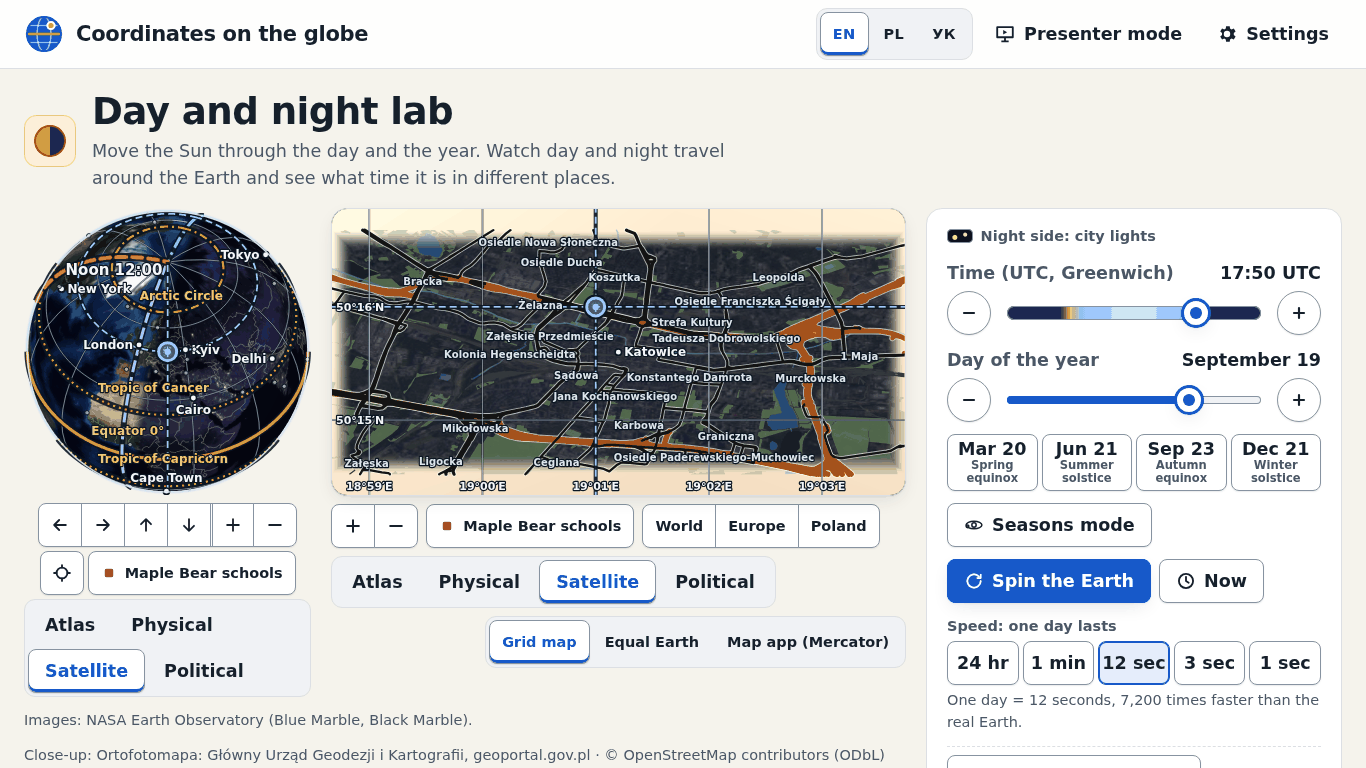
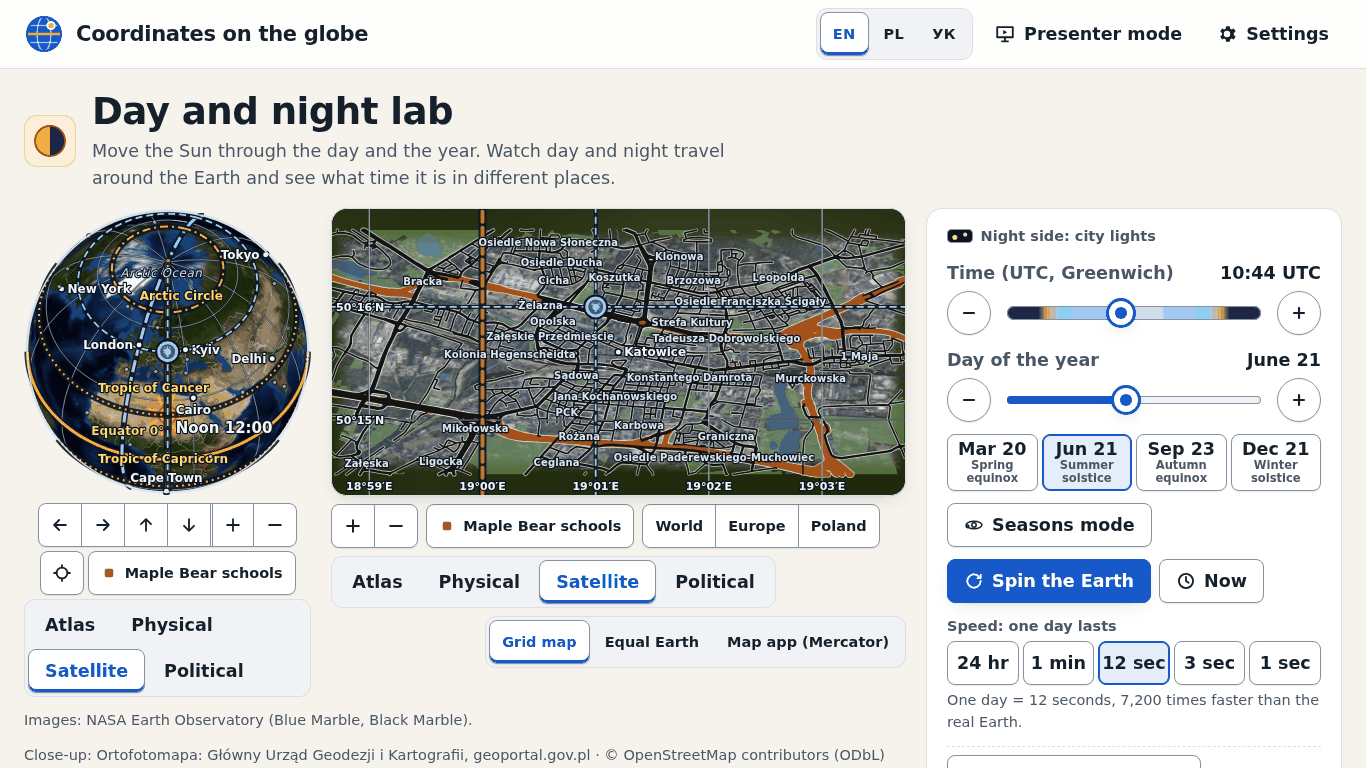
docs: say what is really left, and two small things that were only nearly right
docs/RELEASE.md's "Known issues" claimed the missing water was two boxes and
only in the styles that draw no photo. It was six boxes, and it showed in
every style, because the water fill is drawn over the photo. The entry now
carries the before-and-after share for each of the six, names the cause
(ruling R16 plus a query that never asked for coastlines) and points at the
test that holds the floor. Three honest entries join it: the two boxes that
are dark on a projector (Rovaniemi 35.6 of 255, Sydney 50.7 — Giza, the
third, is fixed), Rovaniemi's letterboxing at its fit zoom, and the dense
street grid at Tokyo and Giza's city half. Finland's NLS orthophotos are
recorded as unreachable without an API key: every route answers 401 and the
one keyless mirror redirects to a certificate that does not match its own
host, so Rovaniemi stays on Sentinel-2.

The README hero was taken at whatever time the build happened to run, and
the committed one was at dusk: the school box lay on the night side, dimmed
to photo x 0.35 by ruling R23, so the first picture a reader met was a dark
blue rectangle with street names on it. The Sun is now pinned to local
midday over Katowice, as the satellite shot beside it already pins its own.

And the footer's credit lines appended their source link after the
translated text, which reads correctly in all three languages only because
all three happen to end on {source}. The placeholder is now filled with a
[…]

diff --git a/src/app/Footer.svelte b/src/app/Footer.svelte
@@ -2,6 +2,19 @@
   import { i18n, t } from '../i18n/i18n.svelte';
   import { AUTHOR, CLOSE_UP_SOURCES, IMAGERY, MAP_DATA, OSM, SCHOOL_DATA } from './credits';
   const year = new Date().getFullYear();
+  /*
+   * A credit line is "Map data: {source}" and the source itself is a link, so the text has to be written round
+   * the anchor rather than through it. Appending the link after `t(key, { source: '' })` reads the same in all
+   * three languages today only because all three happen to end on `{source}`; a translator who writes
+   * „Źródło {source} — dane mapy” would have put the link at the end of a sentence it belongs in the middle of,
+   * with nothing failing anywhere. So the placeholder is filled with a character no text contains and the line
+   * is cut there, which puts the link exactly where the translation asks for it.
+   */
+  const MARK = '\u0000';
+  const around = (key: string): [string, string] => {
+    const [before = '', after = ''] = t(key, { source: MARK }).split(MARK);
+    return [before, after];
+  };
   const retrieved = $derived(new Intl.DateTimeFormat(i18n.lang, { dateStyle: 'long', timeZone: 'UTC' }).format(new Date(`${SCHOOL_DATA.retrieved}T00:00:00Z`)));
 </script>
 
@@ -9,9 +22,9 @@
   <p>
     © {year} {t('footer.madeBy', { name: AUTHOR.name })}
     <span class="sep" aria-hidden="true"> · </span>
-    {t('footer.mapData', { source: '' })}<a href={MAP_DATA.url} rel="noopener">{MAP_DATA.name}</a>
+    {around('footer.mapData')[0]}<a href={MAP_DATA.url} rel="noopener">{MAP_DATA.name}</a>{around('footer.mapData')[1]}
     <span class="sep" aria-hidden="true"> · </span>
-    {t('footer.imagery', { source: '' })}<a href={IMAGERY.url} rel="noopener">{IMAGERY.name}</a>
+    {around('footer.imagery')[0]}<a href={IMAGERY.url} rel="noopener">{IMAGERY.name}</a>{around('footer.imagery')[1]}
   </p>
   <p class="links">
     <a href={AUTHOR.url} rel="author">{t('footer.website', { name: AUTHOR.name })}</a>
@@ -20,9 +33,9 @@
   </p>
   <p class="schools">{t('footer.schools', { date: retrieved })}</p>
   <p class="close-ups">
-    {t('footer.closeUpPhotos', { source: '' })}{#each CLOSE_UP_SOURCES as s, i (s.key)}{#if i}<span aria-hidden="true">{', '}</span>{/if}<a href={s.url} rel="noopener">{s.name}</a>{/each}
+    {around('footer.closeUpPhotos')[0]}{#each CLOSE_UP_SOURCES as s, i (s.key)}{#if i}<span aria-hidden="true">{', '}</span>{/if}<a href={s.url} rel="noopener">{s.name}</a>{/each}{around('footer.closeUpPhotos')[1]}
     <span class="sep" aria-hidden="true"> · </span>
-    {t('footer.closeUpStreets', { source: '' })}<a href={OSM.url} rel="noopener">{OSM.name}</a>
+    {around('footer.closeUpStreets')[0]}<a href={OSM.url} rel="noopener">{OSM.name}</a>{around('footer.closeUpStreets')[1]}
   </p>
   <p class="close-ups small">{t('closeup.credit.sentinel')}</p>
 </footer>

diff --git a/scripts/readme-shots.ts b/scripts/readme-shots.ts
@@ -16,7 +16,11 @@ const SHOTS = [
   { name: 'lesson', hash: 'en/topic-6/explore/5' },
   { name: 'lab', hash: 'en/lab' },
   { name: 'satellite', hash: 'en/lab', style: 'satellite', sun: { utcMinutes: 1020, dayOfYear: 266 } },
-  { name: 'close-up', hash: 'en/lab', style: 'satellite', cityBox: 'katowice' },
+  // The Sun is pinned to local midday over Katowice (19.02°E, so solar noon is 10:44 UTC = 644 minutes) on
+  // midsummer's day. Without it the hero was whatever time the build happened to run at, and the one committed
+  // before this fix was taken at dusk: the school box lay on the night side, dimmed to `photo x 0.35` by ruling
+  // R23, and the picture a reader met first was a dark blue rectangle with street names on it.
+  { name: 'close-up', hash: 'en/lab', style: 'satellite', cityBox: 'katowice', sun: { utcMinutes: 644, dayOfYear: 172 } },
 ] as const;
 
 const outFlag = process.argv.indexOf('--out');

diff --git a/docs/RELEASE.md b/docs/RELEASE.md
@@ -34,12 +34,23 @@ without the owner's go-ahead.
 
 ## Known issues (left for the owner to accept or defer)
 
-- **Missing water at two boxes.** Sydney Harbour and the Hudson at Manhattan have no water fill in the two styles
-  that have no photo (Atlas, Political) — their street data's water polygons don't reach that far (Manhattan) or
-  are empty (Sydney). The photo carries the water in Physical and Satellite. (The Thames at Greenwich **is**
-  filled — its `water` object is an 11-polygon MultiPolygon that includes the tidal river way on the Thames'
-  course, confirmed by decoding the committed `greenwich.json.gz` — so that box is not affected and needs no
-  owner decision.)
+- **Water is complete at every box, as of the final fix wave — the entry that used to stand here was wrong in
+  both directions.** It said the gap was two boxes and only in the styles with no photo. It was six boxes, and
+  it showed in *every* style including Physical and Satellite, because the water fill is drawn over the photo
+  and the photo is only 10 m to a pixel at half of them. Measured water as a share of each box, before and
+  after: Sydney 0.00 % → 51.63 %, Manhattan 0.65 % → 31.46 % (the island was not one), Paris 0.12 % → 4.18 %
+  (the Seine was a hairline under its own bridge names), Warsaw 1.15 % → 5.65 % and Kraków 1.07 % → 3.51 % (no
+  Vistula at either), Greenwich 4.91 % → 7.64 % (the Thames stopped at the peninsula). The cause was planning
+  ruling R16, which skipped OpenStreetMap relations, together with a query that never asked for
+  `natural=coastline`: the big water of a city is never one closed way. `scripts/build-city-streets.ts` now
+  assembles multipolygon relations and closes coastlines against the box, and `tests/unit/
+  city-streets-data.test.ts` holds a floor under each box's water so a rebuild cannot drop a river again. Four
+  boxes hold no water at all and say so in writing there: Mitad del Mundo, Rovaniemi, Tokyo and Giza.
+- **Rovaniemi is Sentinel-2 at 10 m, not Finland's 0.5 m orthophotos.** The NLS open WMTS needs a free API key
+  (`avoin-karttakuva.maanmittauslaitos.fi` answers 401 to every route, re-checked during the final fix wave);
+  the only keyless mirror found redirects to a host whose certificate does not match its own name. A school
+  lesson's build does not hang on that, and an API key is not something this repository can carry. The box
+  stays as it is, and that box is forest, an airport and a village, which 10 m resolves.
 - **Rovaniemi's one-minute gap — already resolved, kept here for awareness only.** The box centre (and the
   card/readout it drives) sits at 66°33′N, the village's own painted Arctic Circle line; the drawn Arctic Circle
   is at 66°34′N, about 180 m north of the box centre. This is a real geometric fact, not a bug, and it no longer
@@ -48,6 +59,26 @@ without the owner's go-ahead.
 - **The photo's box-edge feather at middling zooms.** The blend between the close-up photo and the world image
   around it is a soft gradient rather than a hard edge; at zooms between the fit zoom and full zoom in on the
   photo it can read as a faint band near the box boundary.
+- **Two boxes are dark on a projector.** Rovaniemi's photo averages 35.6 of 255 and Sydney's 50.7 — a September
+  evening over forest and a winter-morning harbour. Both read well on a laptop screen and both go muddy on a
+  classroom projector in a lit room. The lesson does not brighten a photo per box, and the honest fixes are a
+  different Sentinel scene for each (a data change, needing the twelve looked at again) or a projector-mode
+  lift applied to the close-up only. Giza, the third box the review named, is fixed: it now uses a January
+  scene with the sun 33.8° up instead of a September one at 61.5°, so the pyramids cast shadows and read as
+  pyramids — its mean moved 204 → 161 and its spread 45.8 → 61.5.
+- **Rovaniemi letterboxes at its fit zoom.** Rovaniemi's box is 0.135° of longitude — the widest of the twelve,
+  because 6 km is a lot of longitude at 66°N — so it fills the view's width long before its height, and a strip
+  of ordinary world map shows above and below it. Every other box is bound by its 4 km height instead. It is
+  geometry, not a bug; closing it would mean a different box shape at high latitude.
+- **The street grid is dense at Tokyo and at Giza's city half.** From the final fix wave: the ordinary streets
+  (`residential`, `unclassified`, `living_street`) now arrive at each box's own fit zoom, which is the view the
+  close-up list lands on, so a pupil who taps "Katowice — the school" sees the school's own street. At the two
+  boxes with the densest grids — Tokyo draws 1 899 of those subpaths at that zoom and Giza 2 540 — that leaves
+  little of the photograph showing between them until the pupil zooms further in. Giza's plateau, which is what
+  that box exists for, has no streets on it and is completely clear. If the owner would rather have the
+  photograph back at the arriving view, the lever is the road casing (a 3.4 px light stroke under a 1.8 px
+  core) rather than the threshold: dropping the casing on classes 4 and 5 until a deeper zoom recovers most of
+  the ink without taking the streets away.
 
 ## Publish steps
 
